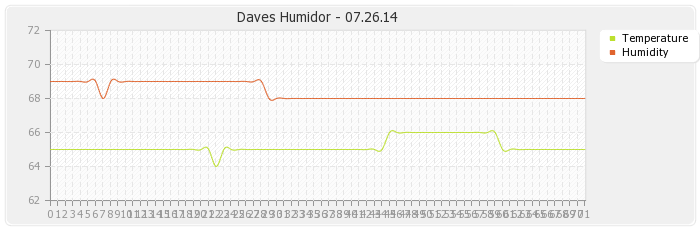
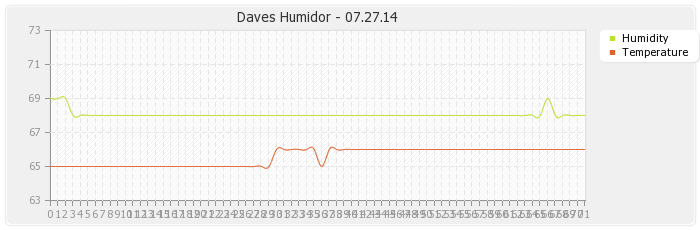
support multiple clients, clear alert file in web

diff --git a/web_root/lastReport.html b/web_root/lastReport.html
@@ -54,17 +54,17 @@
 	    					<td width=60 &nbsp; </td>
 	    					
 	    					<td>Temp low/high</td>
-	    					<td>64 &nbsp; / &nbsp; 66</td>
+	    					<td>65 &nbsp; / &nbsp; 66</td>
 	    				</tr>
 	    				
 	    				<tr>
 	    					<td>Avg Humidity: </td>
-	    					<td>68.4</td>
+	    					<td>68.1</td>
 	    				
 	    					<td width=60 &nbsp; </td>
 	    					
 	    					<td>Avg Temperature: </td>
-	    					<td>65.2</td>
+	    					<td>65.6</td>
 	    				</tr>
 	    				
 	    				<tr>
@@ -79,12 +79,12 @@
 	    				
 	    				<tr>
 	    					<td>Last Update: </td>
-	    					<td>4:37 am - Sat 07.26.14</td>
+	    					<td>1:27 am - Sun 07.27.14</td>
 	    				 
 	    					<td width=60 &nbsp; </td>
 	    					
 	    					<td>Last Reboot: </td>
-	    					<td>4:37 am - Sat 07.26.14</td>
+	    					<td>12:06 pm - Sat 07.26.14</td>
 	    				</tr>
 	    				<!--tr><td></td><td></td></tr-->
 	    			</table>

diff --git a/web_root/index.php b/web_root/index.php
@@ -3,6 +3,7 @@
     
     $limit  = (int)$_GET['limit'];
 	$offset = (int)$_GET['offset'];
+	$clientid   = (int)$_GET['id'];
 	$image_path = "humidor.png";
 	$last_report = "lastReport.html";
 	$last_graph_id = './lastGraph.txt';
@@ -20,7 +21,7 @@
     if($isStdReport == 0) $image_path = "historical.png";
     
     if($isStdReport && $cache_enabled){ 
-	    $r = mysql_query("select autoid from humidor order by autoid desc limit 1");
+	    $r = mysql_query("select autoid from humidor where clientid=$clientid order by autoid desc limit 1");
 	    $rr = mysql_fetch_assoc($r);
 	    $lastID = $rr['autoid'];
 	    $lastGraphID = (int)file_get_contents($last_graph_id);
@@ -31,20 +32,20 @@
 	}
     
     //get last watered time..
-    $r = mysql_query("SELECT UNIX_TIMESTAMP(tstamp) as int_tstamp from humidor where watered > 0 order by autoid desc limit 1");
+    $r = mysql_query("SELECT UNIX_TIMESTAMP(tstamp) as int_tstamp from humidor where watered > 0 and clientid=$clientid order by autoid desc limit 1");
     $rr = mysql_fetch_assoc($r);
     $lastWatered = date("g:i a - D m.d.y",$rr['int_tstamp']);
     
-    $r = mysql_query("SELECT UNIX_TIMESTAMP(tstamp) as int_tstamp from humidor where powerevt > 0 order by autoid desc limit 1");
+    $r = mysql_query("SELECT UNIX_TIMESTAMP(tstamp) as int_tstamp from humidor where powerevt > 0 and clientid=$clientid order by autoid desc limit 1");
     $rr = mysql_fetch_assoc($r);
     $lastPowerEvent = date("g:i a - D m.d.y",$rr['int_tstamp']);
     
-    $r = mysql_query("SELECT UNIX_TIMESTAMP(tstamp) as int_tstamp from humidor order by autoid desc limit 1");
+    $r = mysql_query("SELECT UNIX_TIMESTAMP(tstamp) as int_tstamp from humidor where clientid=$clientid order by autoid desc limit 1");
     $rr = mysql_fetch_assoc($r);
     $lastUpdate = date("g:i a - D m.d.y",$rr['int_tstamp']);
     
     //now we build the temp/humidity value arrays from the database
-    $r = mysql_query("select * from humidor order by autoid desc limit $limit offset $offset");
+    $r = mysql_query("select * from humidor where clientid=$clientid order by autoid desc limit $limit offset $offset");
 	
     $i=0;
     $lowest  = 200;
@@ -185,7 +186,20 @@
 	    	</tr>
 	    </table>
     ";
-
+    
+    if( file_exists($alert_file) ){
+	    $report.= "
+	    	<script>
+	    		function clear_alert(){
+		    		var key = prompt('Enter the apikey to clear the alert:');
+		    		if(key.length==0) return;
+		    		window.open('logData.php?clear_alert=1&apikey='+key, '', 'width=200, height=100');
+	    		}
+	    	</script>
+	    	<center><font color=red size=+4><u><a onmouseover='this.style.cursor=\"pointer\"' onclick='clear_alert()'>Clear Alert</a></u></font></center>	    
+	    ";
+    }
+    
     echo $report;
     if($isStdReport) file_put_contents($last_report, $report);
      
@@ -210,12 +224,12 @@ function generateGraph($output_file){
      $DataSet = new pData;  
      //$DataSet->AddPoint(array(1,4,3,4,3,3,2,1,0,7,4,3,2,3,3,5,1,0),"Temperature");  
      //$DataSet->AddPoint(array(1,4,2,6,2,3,0,1,5,1,2,4,5,2,1,0,6,4),"Humidity");  
-     $DataSet->AddPoint($t,"Temperature");
      $DataSet->AddPoint($h,"Humidity"); 
+     $DataSet->AddPoint($t,"Temperature");
      $DataSet->AddAllSeries();  
      $DataSet->SetAbsciseLabelSerie();  
+     $DataSet->SetSerieName("Humidity","Humidity"); 
      $DataSet->SetSerieName("Temperature","Temperature");  
-     $DataSet->SetSerieName("Humidity","Humidity");  
       
      // Initialise the graph  
      $Test = new pChart(700,230);  

diff --git a/web_root/logData.php b/web_root/logData.php
@@ -8,16 +8,21 @@ $humi = (int)$_GET['humi'];
 $watered = (int)$_GET['watered'];
 $powerevt = (int)$_GET['powerevt'];
 $hw_failure = (int)$_GET['failure'];
+$clientid   = (int)$_GET['clientid'];
 $clear_alert = (int)$_GET['clear_alert'];
 //$ip   = $_SERVER['REMOTE_ADDR'];
 
-if( strcmp($key, $API_KEY) !== 0 ) die("<h1>Invalid api key!");
-if($temp <= 0 || $humi <= 0)       die("<h1>Invalid data low");
-if($temp >= 120 || $humi >= 100)   die("<h1>Invalid data high");
+if( strcmp($key, $API_KEY) !== 0 ) die("Invalid api key!");
 
-if($clear_alert==1 && file_exists($alert_file)) unlink($alert_file);
+if($clear_alert==1 && file_exists($alert_file)){
+	 unlink($alert_file);
+	 die("Alert Cleared");
+ }
+ 
+if($temp <= 0 || $humi <= 0)       die("Invalid data low");
+if($temp >= 120 || $humi >= 100)   die("Invalid data high");
 
-$sql = "insert into humidor(temp,humidity,watered,powerevt) values($temp,$humi,$watered,$powerevt)";
+$sql = "insert into humidor(temp,humidity,watered,powerevt,clientid) values($temp,$humi,$watered,$powerevt,$clientid)";
 
 $sendEmail = 0;
 if($temp < 60 || $temp > 75) $sendEmail = 1;
@@ -36,7 +41,7 @@ if($sendEmail == 1){
 ConnectDB();
 
 if(!mysql_query($sql)){ echo "Error adding data to db"; }
- else{ echo "Ok"; }
+ else{ echo "Record Added!"; }
  
 ConnectDB(1);
 

diff --git a/hardware_picts/readme.md b/hardware_picts/readme.md
@@ -1,0 +1,14 @@
+![screenshot](https://raw.githubusercontent.com/dzzie/humidor.net/master/hardware_picts/assembled.jpg)
+![screenshot](https://raw.githubusercontent.com/dzzie/humidor.net/master/hardware_picts/wifi_shield.jpg)
+![screenshot](https://raw.githubusercontent.com/dzzie/humidor.net/master/hardware_picts/sensor wiring.jpg)
+![screenshot](https://raw.githubusercontent.com/dzzie/humidor.net/master/hardware_picts/sensor_connector.jpg)
+![screenshot](https://raw.githubusercontent.com/dzzie/humidor.net/master/hardware_picts/sensor_installed.jpg)
+
+![screenshot](https://raw.githubusercontent.com/dzzie/humidor.net/master/hardware_picts/enclosure_back.jpg)
+![screenshot](https://raw.githubusercontent.com/dzzie/humidor.net/master/hardware_picts/enclosure_buttons.jpg)
+![screenshot](https://raw.githubusercontent.com/dzzie/humidor.net/master/hardware_picts/enclosure_complete.jpg)
+
+![screenshot](https://raw.githubusercontent.com/dzzie/humidor.net/master/hardware_picts/running.jpg)
+
+
+

diff --git a/readme.md b/readme.md
@@ -25,6 +25,7 @@ See screen shot for example web report.
 ![screenshot](https://raw.githubusercontent.com/dzzie/humidor.net/master/screenshot.png)
  
 Build Videos:
+----------------------------------------------
 * Hardware: https://www.youtube.com/watch?v=eM54fs1qsvk&list=UUhIoXVvn4ViA3AL4FJW8Yzw
 * Enclosure: https://www.youtube.com/watch?v=YGUdR5WFM-Q&list=UUhIoXVvn4ViA3AL4FJW8Yzw
 
